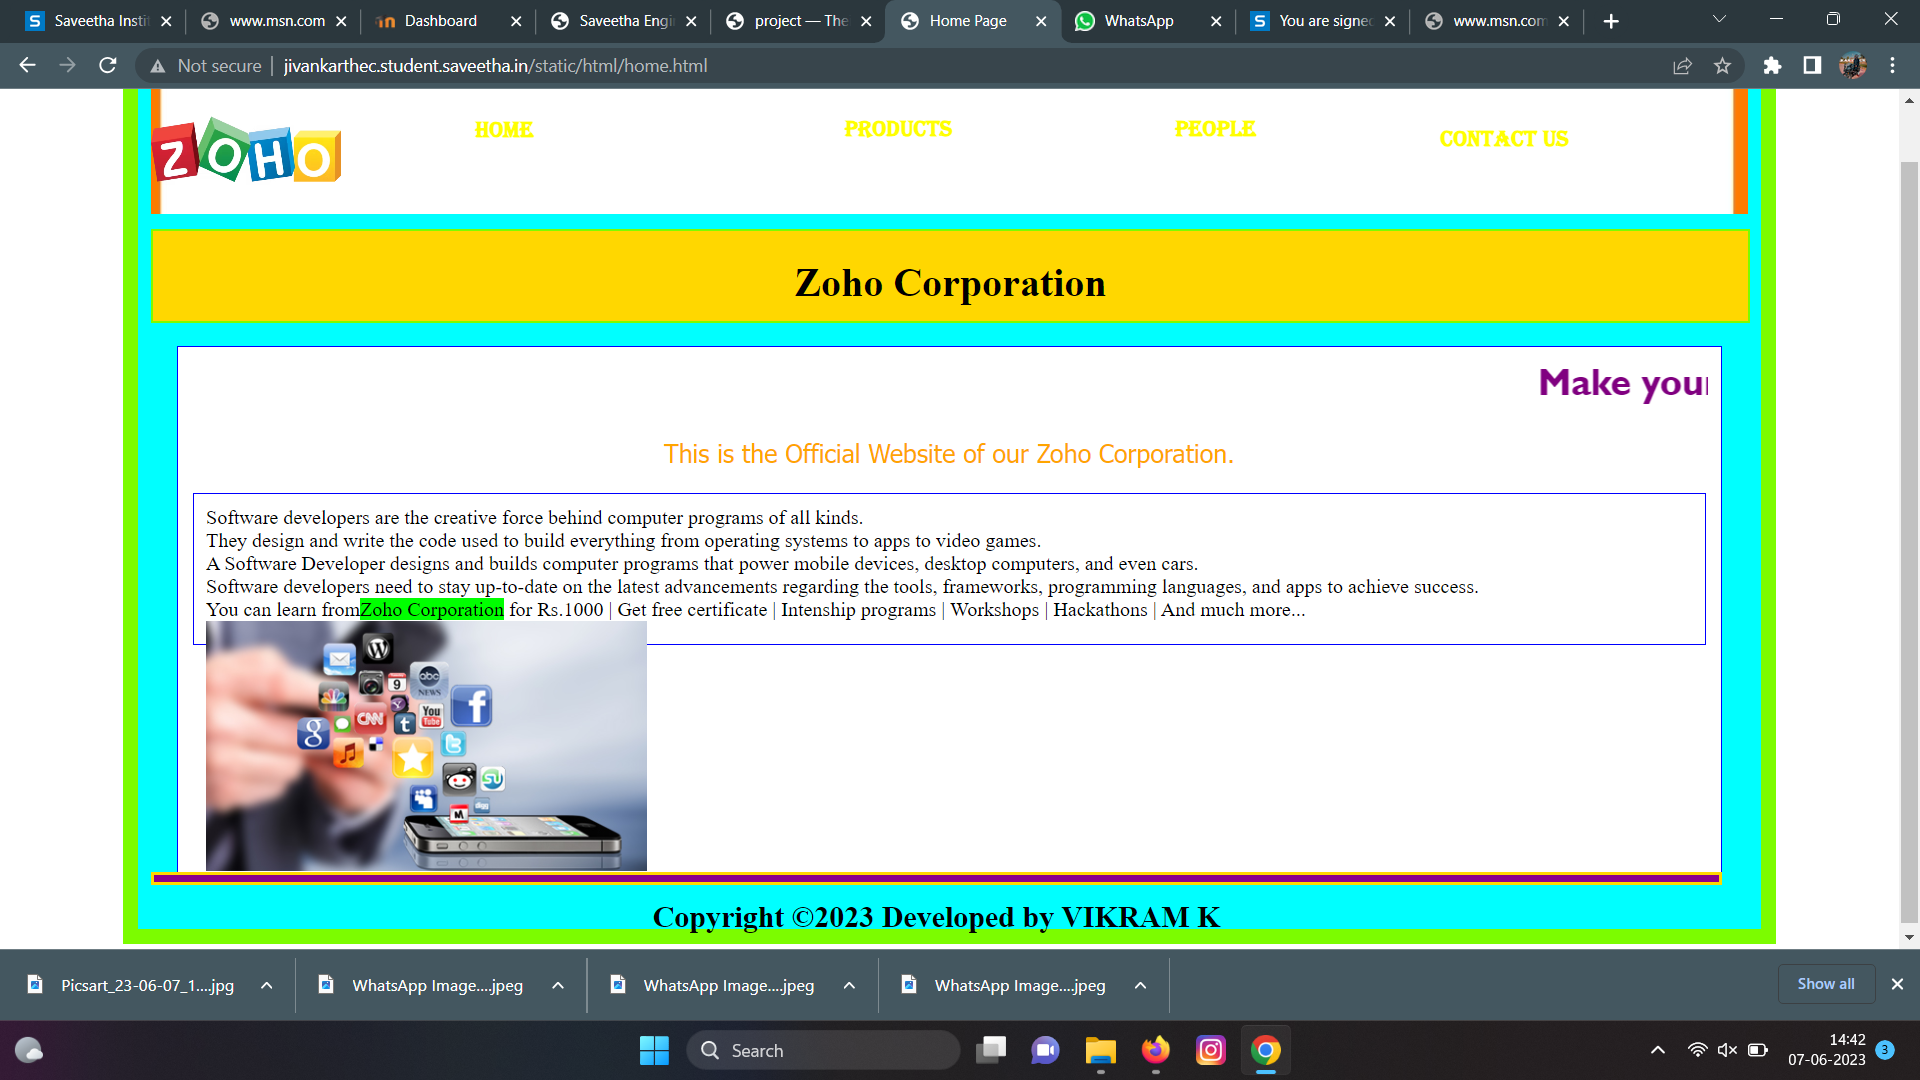
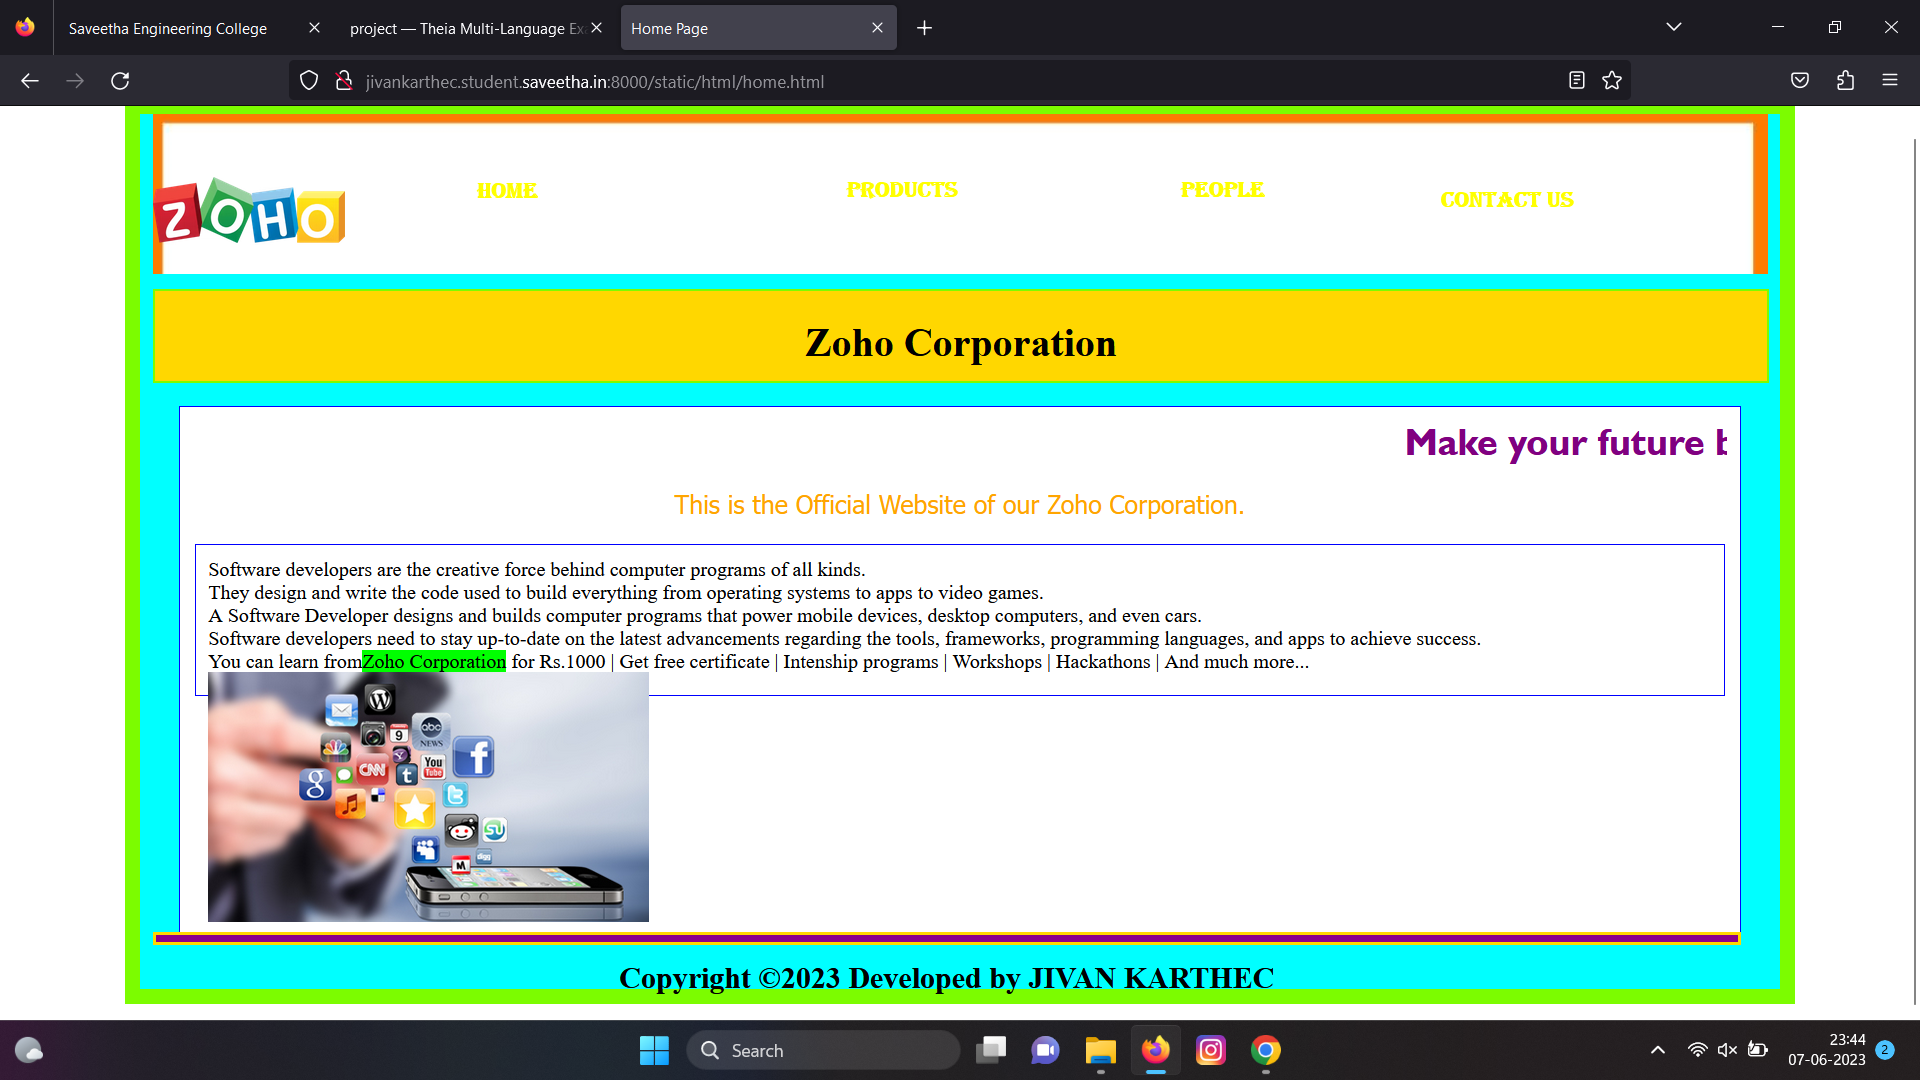
Success

diff --git a/myweb/static/html/people.html b/myweb/static/html/people.html
@@ -198,7 +198,7 @@
                 </div>
                 <div class="footer">
                 <h3><footer style="color:black">
-                Copyright &copy;2023 Developed by VIKRAM K</footer></h3></div>
+                Copyright &copy;2023 Developed by JIVAN KARTHEC</footer></h3></div>
             </div>
         </div>
     </body>

diff --git a/myweb/static/html/contact.html b/myweb/static/html/contact.html
@@ -58,7 +58,7 @@
                 </div>
                 <div class="footer">
                 <H3><footer style="color:black">
-                Copyright &copy;2023 Developed by VIKRAM K</footer></H3></div>
+                Copyright &copy;2023 Developed by JIVAN KARTHEC</footer></H3></div>
             </div>
         </div>
     </body>

diff --git a/myweb/static/html/home.html b/myweb/static/html/home.html
@@ -57,7 +57,7 @@
                 </div>
                 <div class="footer">
                 <h2><footer style="color:black">
-                Copyright &copy;2023 Developed by VIKRAM K</footer></div>
+                Copyright &copy;2023 Developed by JIVAN KARTHEC</footer></div>
             </div>
         </div>
     </body>

diff --git a/myweb/static/html/product.html b/myweb/static/html/product.html
@@ -198,7 +198,7 @@
 
                 <div class="footer">
                 <h3><footer style="color:black">
-                Copyright &copy;2023 Developed by VIKRAM K</footer></h3></div>
+                Copyright &copy;2023 Developed by JIVAN KARTHEC</footer></h3></div>
             </div>
         </div>
     </body>

diff --git a/README.md b/README.md
@@ -88,7 +88,7 @@ home.html
                 </div>
                 <div class="footer">
                 <h2><footer style="color:black">
-                Copyright &copy;2023 Developed by VIKRAM K</footer></div>
+                Copyright &copy;2023 Developed by JIVAN KARTHEC</footer></div>
             </div>
         </div>
     </body>
@@ -296,7 +296,7 @@ product.html
 
                 <div class="footer">
                 <h3><footer style="color:black">
-                Copyright &copy;2023 Developed by VIKRAM K</footer></h3></div>
+                Copyright &copy;2023 Developed by JIVAN KARTHEC</footer></h3></div>
             </div>
         </div>
     </body>
@@ -503,7 +503,7 @@ people.html
                 </div>
                 <div class="footer">
                 <h3><footer style="color:black">
-                Copyright &copy;2023 Developed by VIKRAM K</footer></h3></div>
+                Copyright &copy;2023 Developed by JIVAN KARTHEC</footer></h3></div>
             </div>
         </div>
     </body>
@@ -570,7 +570,7 @@ contact.html
                 </div>
                 <div class="footer">
                 <H3><footer style="color:black">
-                Copyright &copy;2023 Developed by Jivan Karthec</footer></H3></div>
+                Copyright &copy;2023 Developed by JIVAN KARTHEC</footer></H3></div>
             </div>
         </div>
     </body>
